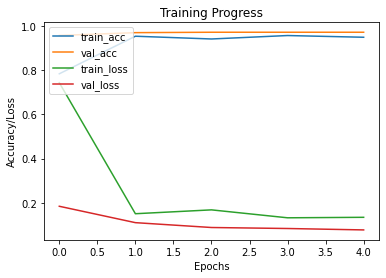
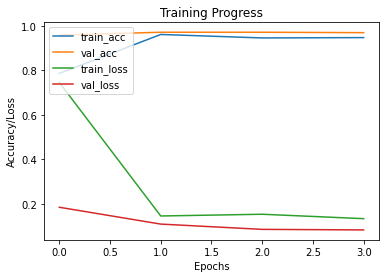
huggingface_py_and_ipynb_md

diff --git a/examples/vision/bit.py b/examples/vision/bit.py
@@ -59,9 +59,7 @@ tf.random.set_seed(SEEDS)
 """
 
 train_ds, validation_ds = tfds.load(
-    "tf_flowers",
-    split=["train[:85%]", "train[85%:]"],
-    as_supervised=True,
+    "tf_flowers", split=["train[:85%]", "train[85%:]"], as_supervised=True,
 )
 
 """
@@ -295,4 +293,10 @@ and 97.0% on CIFAR-10 with 10 examples per class.
 
 You can experiment further with the BigTransfer Method by following the
 [original paper](https://arxiv.org/abs/1912.11370).
+
+
+**Example available on HuggingFace**
+| Trained Model | Demo |
+| :--: | :--: |
+| [![Generic badge](https://img.shields.io/badge/%F0%9F%A4%97%20Model-bit-black.svg)](https://huggingface.co/keras-io/bit) | [![Generic badge](https://img.shields.io/badge/%F0%9F%A4%97%20Spaces-bit-black.svg)](https://huggingface.co/spaces/keras-io/siamese-contrastive) |
 """

diff --git a/examples/vision/md/bit.md b/examples/vision/md/bit.md
@@ -3,12 +3,12 @@
 **Author:** [Sayan Nath](https://twitter.com/sayannath2350)<br>
 **Date created:** 2021/09/24<br>
 **Last modified:** 2021/09/24<br>
+**Description:** BigTransfer (BiT) State-of-the-art transfer learning for image classification.
 
 
 <img class="k-inline-icon" src="https://colab.research.google.com/img/colab_favicon.ico"/> [**View in Colab**](https://colab.research.google.com/github/keras-team/keras-io/blob/master/examples/vision/ipynb/bit.ipynb)  <span class="k-dot">•</span><img class="k-inline-icon" src="https://github.com/favicon.ico"/> [**GitHub source**](https://github.com/keras-team/keras-io/blob/master/examples/vision/bit.py)
 
 
-**Description:** BigTransfer (BiT) State-of-the-art transfer learning for image classification.
 
 ---
 ## Introduction
@@ -21,8 +21,7 @@ model on a target task. The importance of appropriately choosing normalization l
 scaling the architecture capacity as the amount of pre-training data increases.
 
 BigTransfer(BiT) is trained on public datasets, along with code in
-[TF2, Jax and Pytorch](https://github.com/google-research/big_transfer).
-This will help anyone to reach
+[TF2, Jax and Pytorch](https://github.com/google-research/big_transfer). This will help anyone to reach
 state of the art performance on their task of interest, even with just a handful of
 labeled images per class.
 
@@ -72,16 +71,8 @@ train_ds, validation_ds = tfds.load(
 
 <div class="k-default-codeblock">
 ```
-[1mDownloading and preparing dataset tf_flowers/3.0.1 (download: 218.21 MiB, generated: 221.83 MiB, total: 440.05 MiB) to /root/tensorflow_datasets/tf_flowers/3.0.1...[0m
-
-```
-</div>
-    
-
-
-<div class="k-default-codeblock">
-```
-[1mDataset tf_flowers downloaded and prepared to /root/tensorflow_datasets/tf_flowers/3.0.1. Subsequent calls will reuse this data.[0m
+[1mDownloading and preparing dataset 218.21 MiB (download: 218.21 MiB, generated: 221.83 MiB, total: 440.05 MiB) to ~/tensorflow_datasets/tf_flowers/3.0.1...[0m
+[1mDataset tf_flowers downloaded and prepared to ~/tensorflow_datasets/tf_flowers/3.0.1. Subsequent calls will reuse this data.[0m
 
 ```
 </div>
@@ -99,7 +90,9 @@ for i, (image, label) in enumerate(train_ds.take(9)):
 ```
 
 
+    
 ![png](/img/examples/vision/bit/bit_7_0.png)
+    
 
 
 ---
@@ -204,7 +197,9 @@ for n in range(25):
 ```
 
 
+    
 ![png](/img/examples/vision/bit/bit_16_0.png)
+    
 
 
 ---
@@ -308,15 +303,13 @@ history = model.fit(
 <div class="k-default-codeblock">
 ```
 Epoch 1/400
-10/10 [==============================] - 41s 1s/step - loss: 0.7440 - accuracy: 0.7844 - val_loss: 0.1837 - val_accuracy: 0.9582
+10/10 [==============================] - 17s 872ms/step - loss: 0.7454 - accuracy: 0.7859 - val_loss: 0.1845 - val_accuracy: 0.9582
 Epoch 2/400
-10/10 [==============================] - 8s 904ms/step - loss: 0.1499 - accuracy: 0.9547 - val_loss: 0.1094 - val_accuracy: 0.9709
+10/10 [==============================] - 5s 581ms/step - loss: 0.1453 - accuracy: 0.9609 - val_loss: 0.1088 - val_accuracy: 0.9709
 Epoch 3/400
-10/10 [==============================] - 8s 905ms/step - loss: 0.1674 - accuracy: 0.9422 - val_loss: 0.0874 - val_accuracy: 0.9727
+10/10 [==============================] - 5s 537ms/step - loss: 0.1531 - accuracy: 0.9453 - val_loss: 0.0852 - val_accuracy: 0.9709
 Epoch 4/400
-10/10 [==============================] - 8s 905ms/step - loss: 0.1314 - accuracy: 0.9578 - val_loss: 0.0829 - val_accuracy: 0.9727
-Epoch 5/400
-10/10 [==============================] - 8s 903ms/step - loss: 0.1336 - accuracy: 0.9500 - val_loss: 0.0765 - val_accuracy: 0.9727
+10/10 [==============================] - 5s 541ms/step - loss: 0.1332 - accuracy: 0.9469 - val_loss: 0.0827 - val_accuracy: 0.9691
 
 ```
 </div>
@@ -342,7 +335,9 @@ plot_hist(history)
 ```
 
 
+    
 ![png](/img/examples/vision/bit/bit_30_0.png)
+    
 
 
 ---
@@ -356,8 +351,8 @@ print("Accuracy: {:.2f}%".format(accuracy))
 
 <div class="k-default-codeblock">
 ```
-9/9 [==============================] - 6s 646ms/step - loss: 0.0874 - accuracy: 0.9727
-Accuracy: 97.27%
+9/9 [==============================] - 3s 364ms/step - loss: 0.1088 - accuracy: 0.9709
+Accuracy: 97.09%
 
 ```
 </div>
@@ -374,3 +369,9 @@ and 97.0% on CIFAR-10 with 10 examples per class.
 
 You can experiment further with the BigTransfer Method by following the
 [original paper](https://arxiv.org/abs/1912.11370).
+
+
+**Example available on HuggingFace**
+| Trained Model | Demo |
+| :--: | :--: |
+| [![Generic badge](https://img.shields.io/badge/%F0%9F%A4%97%20Model-bit-black.svg)](https://huggingface.co/keras-io/bit) | [![Generic badge](https://img.shields.io/badge/%F0%9F%A4%97%20Spaces-bit-black.svg)](https://huggingface.co/spaces/keras-io/siamese-contrastive) |
